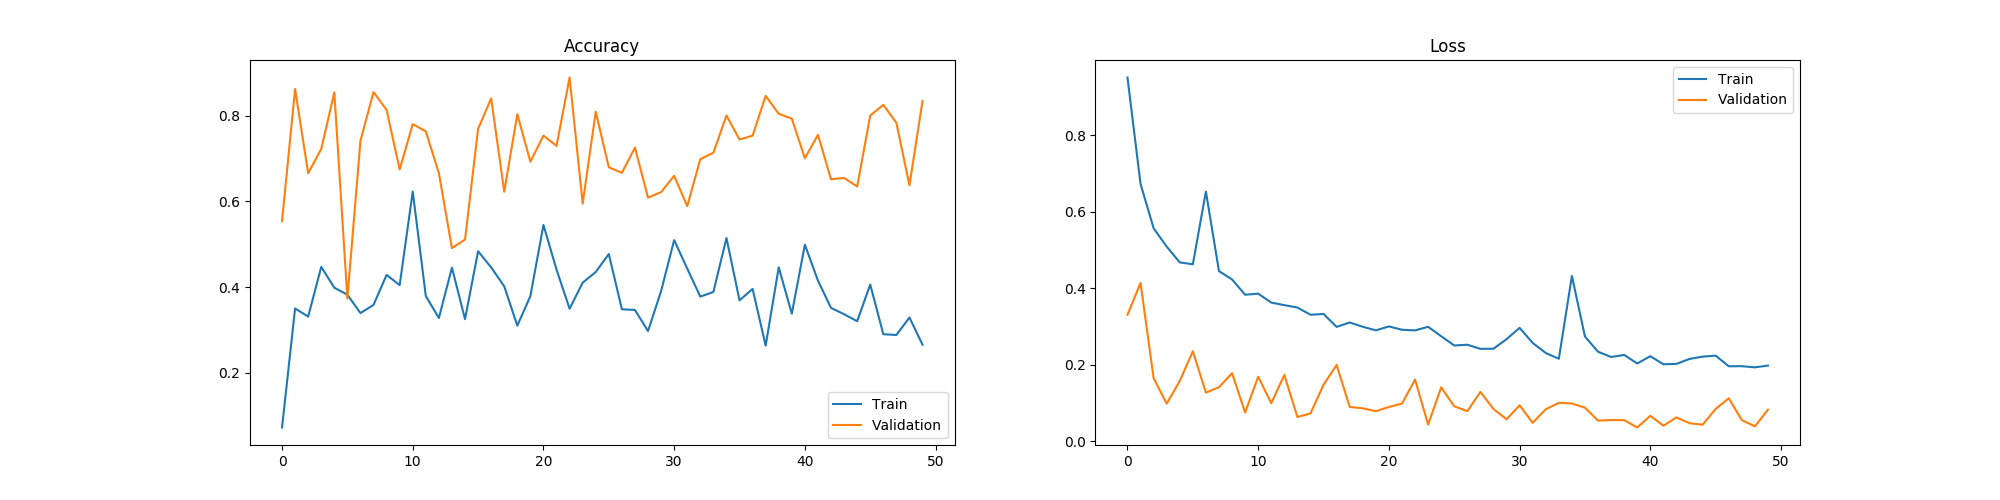
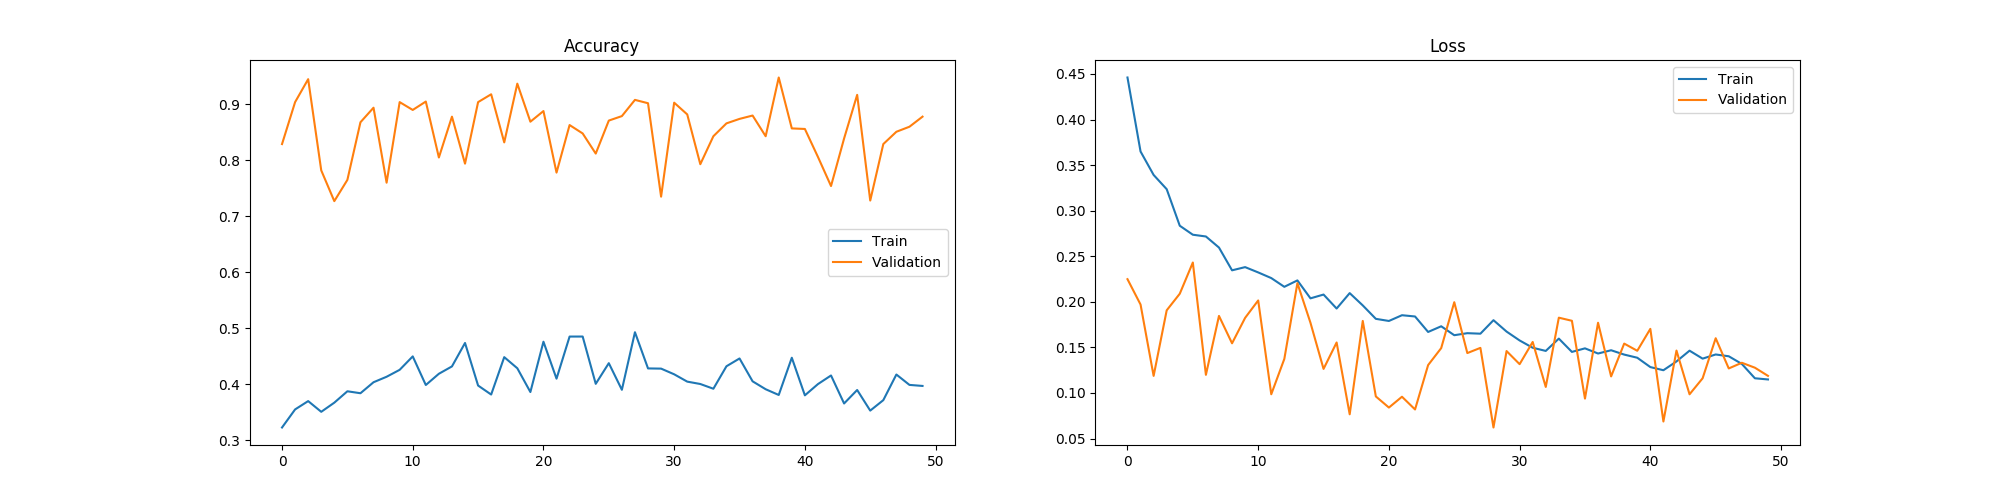
more experiments

diff --git a/src/train.py b/src/train.py
@@ -32,7 +32,8 @@ from PIL import ImageFile
 ImageFile.LOAD_TRUNCATED_IMAGES = True
 
 
-run_name = "resnet18_not_pretrained_6_classes_predict_first"
+# run_name = "resnet18_not_pretrained_6_classes_predict_first_acc_first"
+run_name = "Adam_not_pretrained_resnet50_val_test"
 
 # Switching on GPU
 device = torch.device('cuda' if torch.cuda.is_available() else 'cpu')
@@ -147,7 +148,7 @@ avian_land_dataset = DatasetMaker(
     [get_class_i(x_train, y_train, classDict['plane']),
      get_class_i(x_train, y_train, classDict['car']),
      get_class_i(x_train, y_train, classDict['bird']),
-     get_class_i(x_train, y_train, classDict['cat'])],
+     get_class_i(x_train, y_train, classDict['horse'])],
     transform_with_aug
 )
 
@@ -156,15 +157,18 @@ test_avian_land_dataset = DatasetMaker(
     [get_class_i(x_test, y_test, classDict['plane']),
      get_class_i(x_test, y_test, classDict['car']),
      get_class_i(x_test, y_test, classDict['bird']),
-     get_class_i(x_test, y_test, classDict['cat'])],
+     get_class_i(x_test, y_test, classDict['horse'])],
     transform_with_aug
 )
 
 
 testsetLoader = DataLoader(test_avian_land_dataset,
-                           batch_size=512, shuffle=True, num_workers=4, pin_memory=True)
+                           batch_size=20000, 
+                           shuffle=True,
+                           num_workers=4,
+                           pin_memory=True)
 trainsetLoader = DataLoader(
-    avian_land_dataset, batch_size=512, shuffle=True, num_workers=4, pin_memory=True)
+    avian_land_dataset, batch_size=1000, shuffle=True, num_workers=4, pin_memory=True)
 
 
 def train_multiclass_model(model, train_loader, val_loader, loss, optimizer, num_epoch):
@@ -175,9 +179,10 @@ def train_multiclass_model(model, train_loader, val_loader, loss, optimizer, num
     val_loss_history = []
     accuracy_history = []
     val_accuracy_history = []
+    test_accuracy_history = []
 
     for epoch in tqdm(range(num_epoch)):
-        print('Epoch: {}/{}'.format(epoch+1, num_epoch))
+        tqdm.write('Epoch: {}/{}'.format(epoch+1, num_epoch))
         model.train()
         loss_accum = 0
         correct_samples = 0
@@ -190,51 +195,62 @@ def train_multiclass_model(model, train_loader, val_loader, loss, optimizer, num
             # Divide classes into pasta/hotdog (without ticker of country)
             # and burger/pizza (with ticker of country)
 
-            indexes_one = [i for i, x in enumerate(y_class) if (
-                x == 'airplane') | (x == 'automobile')]
-            indexes_two = [i for i, x in enumerate(
-                y_class) if (x == 'bird') | (x == 'cat')]
+            # indexes_one = [i for i, x in enumerate(y_class) if (
+            #     x == 'airplane') | (x == 'automobile')]
+            # indexes_two = [i for i, x in enumerate(
+            #     y_class) if (x == 'bird') | (x == 'cat')]
 
-            # Calculate loss for 1st part (2 one-hot classes, pasta and hotdog)
-            # (classes 3,4 are cutted off)
-            x_one, y_oh_one = x[indexes_one], one_hot_vectors[indexes_one]
-            x_one, y_oh_one = x_one.to(device), y_oh_one.to(device)
-            prediction_one = model(x_one)
+            # # Calculate loss for 1st part (2 one-hot classes, pasta and hotdog)
+            # # (classes 3,4 are cutted off)
+            # x_one, y_oh_one = x[indexes_one], one_hot_vectors[indexes_one]
+            # x_one, y_oh_one = x_one.to(device), y_oh_one.to(device)
+            # prediction_one = model(x_one)
 
-            loss_value_one = loss(prediction_one, y_oh_one)
+            # loss_value_one = loss(prediction_one, y_oh_one)
 
-            # Calculate loss for 2nd part (4 one-hot classes, pizza and burger)
-            x_two, y_oh_two = x[indexes_two], one_hot_vectors[indexes_two]
-            x_two, y_oh_two = x_two.to(device), y_oh_two.to(device)
+            # # Calculate loss for 2nd part (4 one-hot classes, pizza and burger)
+            # x_two, y_oh_two = x[indexes_two], one_hot_vectors[indexes_two]
+            # x_two, y_oh_two = x_two.to(device), y_oh_two.to(device)
 
-            y_oh_two = y_oh_two
-            prediction_two = model(x_two)
-            loss_value_two = loss(prediction_two, y_oh_two)
+            # y_oh_two = y_oh_two
+            # prediction_two = model(x_two)
+            # loss_value_two = loss(prediction_two, y_oh_two)
 
-            # Sum up losses
-            loss_value = loss_value_one+loss_value_two
+            # # Sum up losses
+            # loss_value = loss_value_one+loss_value_two
 
-            # Calculate accuracy of classes 3/4 for pasta/hotdog, which is not
-            # learned strictly by net,
-            # but by association through pizza & burger
-            # took only predictions of pasta/hotdog for classes 3/4
-            prediction = prediction_one
-            _, indices_pred = torch.max(prediction, 1)
-            # one-hot encoding for 3/4 looks same as for 1/2
-            _, indices_true = torch.max(y_oh_one, 1)
+            # # Calculate accuracy of classes 3/4 for pasta/hotdog, which is not
+            # # learned strictly by net,
+            # # but by association through pizza & burger
+            # # took only predictions of pasta/hotdog for classes 3/4
+            # prediction = prediction_one
+            # _, indices_pred = torch.max(prediction, 1)
+            # # one-hot encoding for 3/4 looks same as for 1/2
+            # _, indices_true = torch.max(y_oh_one, 1)
+            # correct_samples += torch.sum(indices_pred == indices_true)
+            # total_samples += indices_pred.shape[0]
+
+            # # Calculate accuracy of calsses 1/2 for all images in a batch
+            # x_total, y_total = x, one_hot_vectors[:, :4]
+            # x_total, y_total = x_total.to(device), y_total.to(device)
+
+            # prediction_total = model(x_total)
+            # _, indices_total_pred = torch.max(prediction_total, 1)
+            # _, indices_total_true = torch.max(y_total, 1)
+            # correct_samples_total += torch.sum(
+            #     indices_total_pred == indices_total_true)
+            
+            x = x.to(device)
+            one_hot_vectors = one_hot_vectors.to(device)
+            prediction = model(x)
+            loss_value = loss(prediction, one_hot_vectors)
+
+            _, indices_pred = torch.max(prediction[:, :4], 1)
+            _, indices_true = torch.max(one_hot_vectors[:, :4], 1)
             correct_samples += torch.sum(indices_pred == indices_true)
             total_samples += indices_pred.shape[0]
 
-            # Calculate accuracy of calsses 1/2 for all images in a batch
-            x_total, y_total = x, one_hot_vectors[:, :4]
-            x_total, y_total = x_total.to(device), y_total.to(device)
-
-            prediction_total = model(x_total)
-            _, indices_total_pred = torch.max(prediction_total, 1)
-            _, indices_total_true = torch.max(y_total, 1)
-            correct_samples_total += torch.sum(
-                indices_total_pred == indices_total_true)
-            total_samples_total += indices_total_pred.shape[0]
+            total_samples_total += indices_pred.shape[0]
 
             # Optimize model
             optimizer.zero_grad()
@@ -247,10 +263,11 @@ def train_multiclass_model(model, train_loader, val_loader, loss, optimizer, num
         ave_loss = loss_accum/i_step
 
         train_accuracy = float(correct_samples)/total_samples
-        class_accuracy_train = float(correct_samples_total)/total_samples_total
-        val_accuracy, val_loss = calculate_accuracy(model, val_loader)
+        # class_accuracy_train = float(correct_samples_total)/total_samples_total
+        test_accuracy, val_accuracy, val_loss = calculate_accuracy(model, val_loader)
 
         val_accuracy_history.append(val_accuracy)
+        test_accuracy_history.append(test_accuracy)
         accuracy_history.append(train_accuracy)
         val_loss_history.append(float(val_loss))
         loss_history.append(float(ave_loss))
@@ -258,54 +275,71 @@ def train_multiclass_model(model, train_loader, val_loader, loss, optimizer, num
         writer.add_scalar('Loss/train', ave_loss, epoch)
         writer.add_scalar('Loss/test', val_loss, epoch)
         writer.add_scalar('Accuracy/train', train_accuracy, epoch)
-        writer.add_scalar('Accuracy/test', val_accuracy, epoch)
+        writer.add_scalar('Accuracy/test', test_accuracy, epoch)
+        writer.add_scalar('Accuracy/val', val_accuracy, epoch)
 
-        print('Loss_train: {}, Loss_val:{}'.format(ave_loss, val_loss))
-        print('Acc_train: {}, Acc_val: {}'.format(train_accuracy, val_accuracy))
-        print('Acc_classifier: {}'.format(class_accuracy_train))
+        tqdm.write('Loss_train: {}\tLoss_val:{}'.format(ave_loss, val_loss))
+        tqdm.write('Acc_train: {}\t\tAcc_val: {}\tAcc_test: {}'.format(train_accuracy, val_accuracy, test_accuracy))
+        tqdm.write('')
+        # tqdm.write('Acc_classifier: {}'.format(class_accuracy_train))
 
-    print('Learning is finished')
-    return loss_history, accuracy_history, val_loss_history, val_accuracy_history
+    print('Training finished')
+    return loss_history, accuracy_history, val_loss_history, val_accuracy_history, test_accuracy_history
 
 
 def calculate_accuracy(model, loader):
     model.eval()
-    correct_samples = 0
+    correct_associations = 0
+    correct_distinctions = 0
     total_samples = 0
     loss_accum = 0
     with torch.no_grad():
         for i_step, (x, y_class, y_oh) in enumerate(loader):
             #             print(y_class)
-            indexes_one = [i for i, x in enumerate(
+            test_indexes = [i for i, x in enumerate(
                 y_class) if (x == 'airplane') | (x == 'car')]
+
             y_oh = y_oh.type(torch.FloatTensor)
             y_class = list(y_class)
-            x = x.to(device)[indexes_one]
-            y = y_oh.to(device)[indexes_one][:, 2:4]
-            prediction = model(x)[:, 2:4]
-            loss_accum += loss(prediction, y)
-            _, indices_pred = torch.max(prediction, 1)
-            _, indices_true = torch.max(y, 1)
-            correct_samples += torch.sum(indices_pred == indices_true)
-            total_samples += indices_pred.shape[0]
-    accuracy = float(correct_samples)/total_samples
-    ave_loss = loss_accum/i_step
-    print(i_step)
-    return accuracy, ave_loss
+            x = x.to(device)[test_indexes]
+            y_association = y_oh.to(device)[test_indexes][:, 2:4]
+
+            y_distinction = y_oh.to(device)[test_indexes][:, :2]
+
+            prediction = model(x)
+            association = prediction[:, 2:4]
+            distinction = prediction[:, :2]
+
+            loss_accum += loss(association, y_association)
+            _, indices_association = torch.max(association, 1)
+            _, indices_distinctions = torch.max(distinction, 1)
+            _, true_associations = torch.max(y_association, 1)
+            _, true_distinctions = torch.max(y_distinction, 1)
+
+            correct_associations += torch.sum(indices_association == true_associations)
+
+            correct_distinctions += torch.sum(indices_distinctions == true_distinctions)
+            
+            total_samples += indices_association.shape[0]
+
+    accuracy_association = float(correct_associations)/total_samples
+    accuracy_distinction = float(correct_distinctions)/total_samples
+    ave_loss = loss_accum/i_step if i_step > 0 else loss_accum
+    return accuracy_association, accuracy_distinction, ave_loss
 
 
 # My model
 
-multiclass_net = models.resnet18(pretrained=False)
+multiclass_net = models.resnet50(pretrained=False)
 num_ftrs = multiclass_net.fc.in_features
 multiclass_net.fc = (nn.Linear(num_ftrs, 6))
 
 # multiclass_net.load_state_dict(torch.load('classifier.pt'))
 multiclass_net = multiclass_net.to(device)
 loss = nn.BCEWithLogitsLoss()
-optimizer = optim.Adam(multiclass_net.parameters(), lr=1e-3)  # , momentum=0.9)
+optimizer = optim.Adam(multiclass_net.parameters())#, lr=1e-3 , momentum=0.9)
 
-loss_history, accuracy_history, val_loss_history, val_accuracy_history = \
+loss_history, accuracy_history, val_loss_history, val_accuracy_history, test_accuracy_history = \
     train_multiclass_model(multiclass_net,
                            trainsetLoader,
                            testsetLoader,
@@ -318,6 +352,7 @@ plt.figure(figsize=(20, 5))
 plt.subplot(1, 2, 1)
 plt.plot(accuracy_history, label='Train')
 plt.plot(val_accuracy_history, label='Validation')
+plt.plot(test_accuracy_history, label='Test')
 plt.title('Accuracy')
 plt.legend()
 plt.subplot(1, 2, 2)

diff --git a/notes.md b/notes.md
@@ -2,65 +2,109 @@
 
 ## 4 classes
 
-|  Class 1   | Class 2 | Class 3 | Class 4 |
-| :--------: | :-----: | :-----: | :-----: |
-| Bird/Plane | Cat/Car |  Flies  |  Walks  |
+|  Class 1   |  Class 2  | Class 3 | Class 4 |
+| :--------: | :-------: | :-----: | :-----: |
+| Bird/Plane | horse/Car |  Flies  |  Walks  |
 
-- For birds/cats the network sees all 4 classes during training
+- For birds/horses the network sees all 4 classes during training
 - For planes/cars the network only sees the first 2 classes during training
-- For testing the network gets planes/cars but has to predict the last 2 classes 
+- For testing the network gets planes/cars but has to predict the last 2 classes
 
 ### Resnet18 with pretrained=True 50 epochs
 
 ![figure](figures/resnet18_pretrained_4_classes.png)
+
 - Max test accuracy 0.934
 - Min test loss 0.2231
-
-
 
 ### Resnet18 with pretrained=False 50 epochs
 
 ![figure](figures/resnet18_not_pretrained_4_classes.png)
-- Max test accuracy 0.922 
+
+- Max test accuracy 0.922
 - Min test loss 0.2204
 
 ## 6 Classes
 
 | Class 1 | Class 2 | Class 3 | Class 4 | Class 5 | Class 6 |
 | :-----: | :-----: | :-----: | :-----: | :-----: | :-----: |
-|  Plane  |   Car   |  Bird   |   Cat   |  Flies  |  Walks  |
+|  Plane  |   Car   |  Bird   |  horse  |  Flies  |  Walks  |
 
-- For birds/cats the network sees all 6 classes during training
+- For birds/horses the network sees all 6 classes during training
 - For planes/cars the network only sees the first 4 classes during training
-- For testing the network gets planes/cars but has to predict the last 2 classes 
+- For testing the network gets planes/cars but has to predict the last 2 classes
 
 ### Resnet18  with pretrained=False 50 epochs
 
 ![figure](figures/resnet18_not_pretrained_6_classes.png)
+
 - Max test accuracy 0.898
 - Min test loss 0.310
 
 ## 6 classes associate between first 4
 
-The idea is that the network sees planes and birds flying and cats and cars on the ground, so it should associate birds with planes and cats with cars.
+The idea is that the network sees planes and birds flying and horses and cars on the ground, so it should associate birds with planes and horses with cars.
 
 | Class 1 | Class 2 | Class 3 | Class 4 | Class 5 | Class 6 |
 | :-----: | :-----: | :-----: | :-----: | :-----: | :-----: |
-|  Plane  |   Car   |  Bird   |   Cat   |  Flies  |  Walks  |
+|  Plane  |   Car   |  Bird   |  horse  |  Flies  |  Walks  |
 
-- For birds/cats the network sees all 6 classes during training
+- For birds/horses the network sees all 6 classes during training
 - For planes/cars the network only sees the first 6 classes during training
 - For testing the network gets planes/cars but has to predict the classes 3 and 4
 
-### Resnet18 with with pretrained=False 50 epochs
+### Resnet18 with pretrained=False 50 epochs
 
 ![figure](figures/resnet18_not_pretrained_6_classes_predict_first.png)
+
 - Max test accuracy 0.89
 - Min test loss 0.0356
 
-
-### Resnet18 with with pretrained=True 50 epochs
+### Resnet18 with pretrained=True 50 epochs
 
 ![figure](figures/resnet18_pretrained_6_classes_predict_first.png)
+
 - Max test accuracy 0.901
 - Min test loss 0.0183
+
+### Resnet18 with pretrained=False 50 epochs Adam
+
+![figure](figures/tmp.png)
+
+- Max test accuracy 0.984
+
+### Resnet18 with pretrained=False 100 epochs SGD
+
+![figure](figures/sgd100.png)
+
+- Max test accuracy 0.906
+
+### Resnet18 with pretrained=False 300 epochs SGD
+
+![figure](figures/sgd.png)
+
+- Max test accuracy 0.929
+
+### Resnet18 with pretrained=True Adam
+
+![figure](figures/Adam_pretrained.png)
+
+- Max test accuracy 0.983
+
+### Resnet50 with pretrained=True Adam
+
+![figure](figures/Adam_pretrained_resnet50.png)
+
+- Max test accuracy 0.985
+
+### Resnet50 with pretrained=False Adam
+
+![figure](figures/Adam_not_pretrained_resnet50.png)
+
+- Max test accuracy 0.957
+
+### Resnet50 with pretrained=False Adam
+
+![figure](figures/Adam_not_pretrained_resnet50_val_test.png)
+
+- Max test accuracy 0.97
